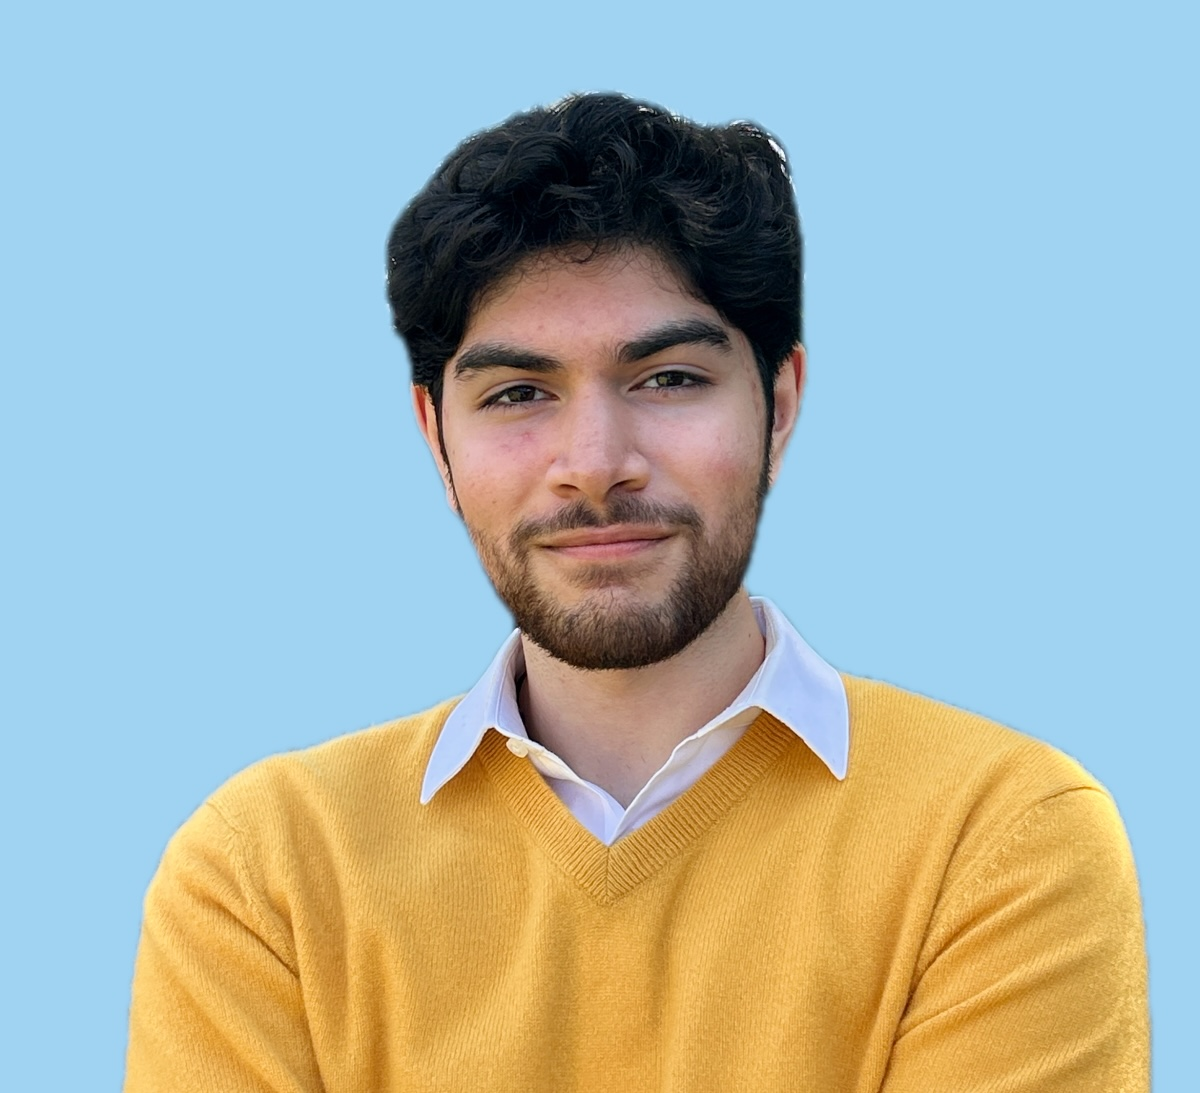
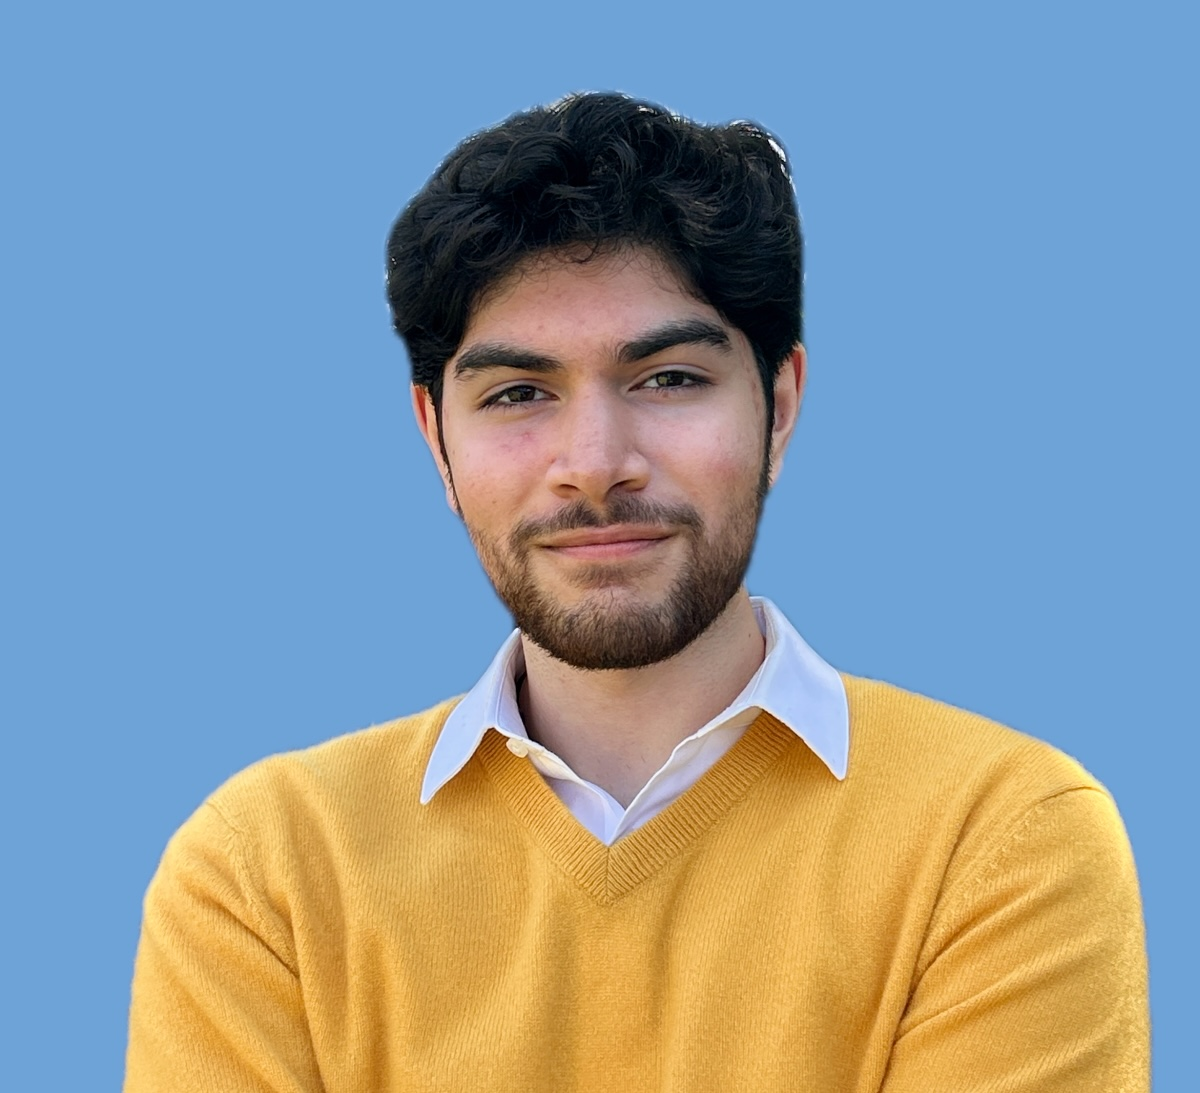
Lake-blue accent, calmer card motion, role dates, and cleaner type

diff --git a/src/style.css b/src/style.css
@@ -1,13 +1,17 @@
 :root {
+  /* motion tokens: one curve + a few durations, shared by everything */
+  --ease-out: cubic-bezier(0.22, 1, 0.36, 1); /* decelerate on arrival */
+  --dur-fast: 180ms; /* hover colour feedback */
+  --dur-slow: 700ms; /* ambient light, entrance */
   --bg: #0c1e14; /* page: deep bottle green */
   --tile: rgba(14, 15, 15, 0.8); /* tiles: near-black (#121212 family), slightly see-through */
   --tile-solid: #121212;
   --border: rgba(242, 242, 238, 0.1);
-  --accent: #3fa55b; /* label green */
+  --accent: #6ea3d8; /* lake blue, sampled from the background photo */
   --label: #f2f2ee;
   --text: #f2f2ee;
   --text-dim: rgba(242, 242, 238, 0.68);
-  --sky: #9fd3f2; /* headshot backdrop */
+  --sky: #6ea3d8; /* headshot backdrop = accent */
 
   --gutter: clamp(16px, 4vw, 48px);
   /* one spacing unit for every gap between blocks */
@@ -16,10 +20,9 @@
   --w: min(1040px, 100vw - 2 * var(--gutter));
   --radius: 24px;
 
-  /* one family, several weights: Geist for everything, Geist Mono for metadata */
+  /* one family, several weights */
   --font-display: 'Geist', system-ui, -apple-system, sans-serif;
   --font-body: 'Geist', system-ui, -apple-system, sans-serif;
-  --font-mono: 'Geist Mono', ui-monospace, Menlo, monospace;
 }
 
 *,
@@ -146,7 +149,7 @@ p {
   font-weight: 500;
   font-size: 15px;
   text-decoration: none;
-  transition: color 200ms;
+  transition: color var(--dur-fast) var(--ease-out);
 }
 .links svg {
   width: 16px;
@@ -204,9 +207,6 @@ p {
   box-shadow:
     0 1px 2px rgba(0, 0, 0, 0.35),
     0 10px 30px -12px rgba(0, 0, 0, 0.55);
-  transition:
-    translate 500ms cubic-bezier(0.2, 0.8, 0.2, 1),
-    box-shadow 500ms cubic-bezier(0.2, 0.8, 0.2, 1);
 }
 
 /* cursor spotlight: position comes from --mx / --my (set in main.js) */
@@ -216,12 +216,12 @@ p {
   inset: 0;
   z-index: -1;
   background: radial-gradient(
-    480px circle at var(--mx, 50%) var(--my, 0%),
-    rgba(63, 165, 91, 0.18),
-    transparent 60%
+    560px circle at var(--mx, 50%) var(--my, 0%),
+    rgba(255, 255, 255, 0.045),
+    transparent 65%
   );
   opacity: 0;
-  transition: opacity 400ms ease;
+  transition: opacity var(--dur-slow) var(--ease-out);
   pointer-events: none;
 }
 
@@ -238,12 +238,6 @@ p {
 }
 
 @media (hover: hover) and (pointer: fine) {
-  .tile:hover {
-    translate: 0 -3px;
-    box-shadow:
-      0 2px 4px rgba(0, 0, 0, 0.35),
-      0 24px 48px -16px rgba(0, 0, 0, 0.7);
-  }
   .tile:hover::before {
     opacity: 1;
   }
@@ -285,7 +279,7 @@ p {
   border-radius: 18px;
   color: inherit;
   text-decoration: none;
-  transition: background 200ms;
+  transition: background var(--dur-fast) var(--ease-out);
 }
 /* Experience: rows share the tile height equally, so the space around every
    divider (and under the title) stays the same however tall the tile is. */
@@ -351,10 +345,24 @@ p {
   font-weight: 500;
   font-size: 16px;
 }
+/* role title on the left, its date pinned to the right on the same line */
+.experience .row-title {
+  display: flex;
+  justify-content: space-between;
+  align-items: baseline;
+  gap: 12px;
+}
+.row-date {
+  flex: none;
+  font-size: 13px;
+  font-weight: 400;
+  color: var(--text-dim);
+  white-space: nowrap;
+}
 .row-sub {
-  margin-top: 3px;
-  font-family: var(--font-mono);
-  font-size: 12px;
+  margin-top: 2px;
+  font-family: var(--font-body);
+  font-size: 14px;
   color: var(--accent);
   font-weight: 500;
 }
@@ -382,9 +390,13 @@ p {
   margin: 0 6px;
   border: 2.5px solid var(--accent);
 }
-.shape.circle {
-  border-radius: 50%;
-  margin: 0 7px;
+/* filled diamond, same footprint as the triangle */
+.shape.diamond {
+  width: 24px;
+  height: 24px;
+  border: none;
+  background: var(--accent);
+  clip-path: polygon(50% 0, 100% 50%, 50% 100%, 0 50%);
 }
 .shape.tri {
   border: none;
@@ -403,10 +415,11 @@ p {
   border-radius: 50%;
   background: rgba(242, 242, 238, 0.08);
   font-size: 15px;
-  transition: background 200ms;
+  transition: background var(--dur-fast) var(--ease-out), color var(--dur-fast) var(--ease-out);
 }
 .project:hover .arrow {
   background: var(--accent);
+  color: var(--tile-solid); /* dark arrow stays legible on the light blue */
 }
 
 /* Skills */
@@ -416,8 +429,8 @@ p {
   display: flex;
   flex-direction: column;
   gap: 12px;
-  font-family: var(--font-mono);
-  font-size: 13px;
+  font-family: var(--font-body);
+  font-size: 14px;
   line-height: 1.5;
   color: var(--text-dim);
 }
@@ -440,13 +453,13 @@ p {
 
 /* ---------------- Entrance ---------------- */
 .reveal {
-  animation: rise 800ms cubic-bezier(0.22, 1, 0.36, 1) backwards;
+  animation: rise var(--dur-slow) var(--ease-out) backwards;
   animation-delay: var(--d, 0ms);
 }
 @keyframes rise {
   from {
     opacity: 0;
-    transform: translateY(16px);
+    transform: translateY(8px);
   }
 }
 
@@ -454,11 +467,8 @@ p {
   .reveal {
     animation: none;
   }
-  .tile {
-    transition: none;
-  }
-  .tile:hover {
-    translate: none;
+  .tile::before {
+    display: none;
   }
 }
 

diff --git a/index.html b/index.html
@@ -9,7 +9,7 @@
     <link rel="preconnect" href="https://fonts.googleapis.com" />
     <link rel="preconnect" href="https://fonts.gstatic.com" crossorigin />
     <link
-      href="https://fonts.googleapis.com/css2?family=Geist:wght@400;500;600;700&family=Geist+Mono:wght@400;500&display=swap"
+      href="https://fonts.googleapis.com/css2?family=Geist:wght@400;500;600;700&display=swap"
       rel="stylesheet"
     />
     <link rel="stylesheet" href="/src/style.css" />
@@ -28,7 +28,7 @@
 
         <div class="intro reveal" style="--d: 80ms">
           <h1 class="name">I’m <span class="accent">Ali</span>!</h1>
-          <p class="oneliner">Building @ Agent Inc. + AI Research @ UTD</p>
+          <p class="oneliner">Software Engineer @ Agents Incubator</p>
           <ul class="links">
             <li>
               <a href="https://github.com/AliJafri2" target="_blank" rel="noopener">
@@ -69,7 +69,7 @@
             <li class="row">
               <span class="logo"><img src="/images/agents-incubator-logo.png" alt="" /></span>
               <div>
-                <p class="row-title">Software Engineer</p>
+                <p class="row-title"><span>Software Engineer</span><span class="row-date">Current</span></p>
                 <p class="row-sub">@ Agents Incubator</p>
                 <p class="row-desc">Taking initiatives from 0-1 at an AI-native services startup for healthcare &amp; life sciences.</p>
               </div>
@@ -77,7 +77,7 @@
             <li class="row">
               <span class="logo"><img src="/images/school-logo.png" alt="" /></span>
               <div>
-                <p class="row-title">AI Researcher</p>
+                <p class="row-title"><span>AI Researcher</span><span class="row-date">Current</span></p>
                 <p class="row-sub">@ UT Dallas</p>
                 <p class="row-desc">Research into open-source agent guardrails.</p>
               </div>
@@ -85,7 +85,7 @@
             <li class="row">
               <span class="logo"><img src="/images/cvs-logo.png" alt="" /></span>
               <div>
-                <p class="row-title">Applied AI Engineer</p>
+                <p class="row-title"><span>Applied AI Engineer</span><span class="row-date">Summer 2026</span></p>
                 <p class="row-sub">@ CVS Health</p>
                 <p class="row-desc">One line on what you built and the impact it had.</p>
               </div>
@@ -109,7 +109,7 @@
             </li>
             <li>
               <a class="row project" href="#" target="_blank" rel="noopener">
-                <span class="shape circle" aria-hidden="true"></span>
+                <span class="shape diamond" aria-hidden="true"></span>
                 <div>
                   <p class="row-title">Project B</p>
                   <p class="row-desc">The problem, and the interesting decision you made.</p>

diff --git a/src/main.js b/src/main.js
@@ -1,14 +1,40 @@
-// Cursor spotlight on the cards: feed the pointer position into CSS variables.
-// Only on devices with a real hover pointer, and not when reduced motion is requested.
+// Ambient light on the cards: a faint glow that eases toward the cursor
+// (rather than snapping to it). Only on devices with a real hover pointer,
+// and not when reduced motion is requested.
 const canHover = window.matchMedia('(hover: hover) and (pointer: fine)').matches;
 const reduceMotion = window.matchMedia('(prefers-reduced-motion: reduce)').matches;
 
 if (canHover && !reduceMotion) {
+  const EASE = 0.12; // fraction of the remaining distance covered each frame
+
   for (const tile of document.querySelectorAll('.tile')) {
+    let tx = 0, ty = 0; // target (cursor) position
+    let x = 0, y = 0; // current light position
+    let frame = null;
+
+    const step = () => {
+      x += (tx - x) * EASE;
+      y += (ty - y) * EASE;
+      tile.style.setProperty('--mx', `${x.toFixed(1)}px`);
+      tile.style.setProperty('--my', `${y.toFixed(1)}px`);
+      // keep animating until the light has caught up
+      frame = Math.abs(tx - x) + Math.abs(ty - y) > 0.5 ? requestAnimationFrame(step) : null;
+    };
+
+    tile.addEventListener('pointerenter', (e) => {
+      const r = tile.getBoundingClientRect();
+      // start the light where the cursor enters, so it fades in in place
+      x = tx = e.clientX - r.left;
+      y = ty = e.clientY - r.top;
+      tile.style.setProperty('--mx', `${x}px`);
+      tile.style.setProperty('--my', `${y}px`);
+    });
+
     tile.addEventListener('pointermove', (e) => {
       const r = tile.getBoundingClientRect();
-      tile.style.setProperty('--mx', `${e.clientX - r.left}px`);
-      tile.style.setProperty('--my', `${e.clientY - r.top}px`);
+      tx = e.clientX - r.left;
+      ty = e.clientY - r.top;
+      if (!frame) frame = requestAnimationFrame(step);
     });
   }
 }
